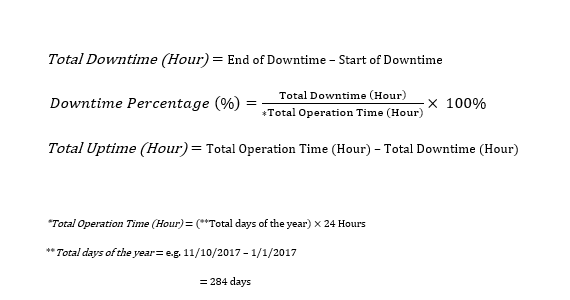
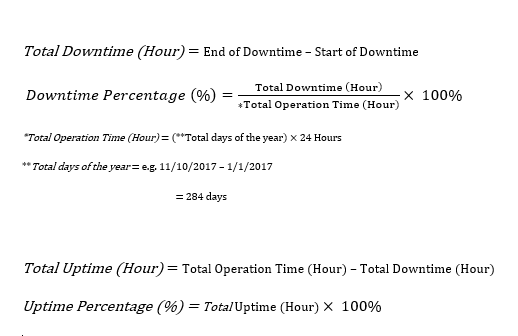
+1

diff --git a/public/Searchdowntime/sdt.html b/public/Searchdowntime/sdt.html
@@ -38,6 +38,7 @@
                         <th><a href="javascript:void(0)" ng-click="orderByField='system'; reverseSort = !reverseSort">System <span ng-show="orderByField == 'system'"><i ng-show="!reverseSort" class="icon-sort-up"></i><i ng-show="reverseSort" class="icon-sort-down"></i></span></a></th>
                         <th><a href="javascript:void(0)" ng-click="orderByField='equipment'; reverseSort = !reverseSort">Equipment <span ng-show="orderByField == 'equipment'"><i ng-show="!reverseSort" class="icon-sort-up"></i><i ng-show="reverseSort" class="icon-sort-down"></i></span></a></th>
                         <th>Total Uptime</th>
+                        <th>Total Uptime Percentage</th>
                     </tr>
                     </thead>
                     <tbody>
@@ -45,6 +46,7 @@
                         <td>{{equipment.system}}</td>
                         <td>{{ equipment.equipment }}</td>
                         <td>{{ equipment.uptime | number:2 }} hrs</td>
+                        <td>{{ equipment.uppercent | number:2 }} hrs</td>
                     </tr>
                     </tbody>
                     

diff --git a/public/manual/manual.html b/public/manual/manual.html
@@ -86,7 +86,7 @@
                     </ul>
                     
                     <div class="text-center">
-                        <img src="assets/img/calc.png" class="img-rounded img-responsive" alt="Cinque Terre" class="img-responsive">
+                        <img src="assets/img/calc.png" class="img-rounded img-responsive" class="img-responsive">
                     </div>
 
                     <hr/>

diff --git a/public/Searchdowntime/sdt.js b/public/Searchdowntime/sdt.js
@@ -171,7 +171,7 @@ app.controller('sdtCtrl', ['$scope', '$firebaseObject', '$firebaseArray', '$filt
         var firstDay = new Date(getYear,0,1);
         var today = new Date (date.getTime());
 
-        var difference = (Math.abs(firstDay - today) / 36e5);
+        
         
         console.log(difference);
         
